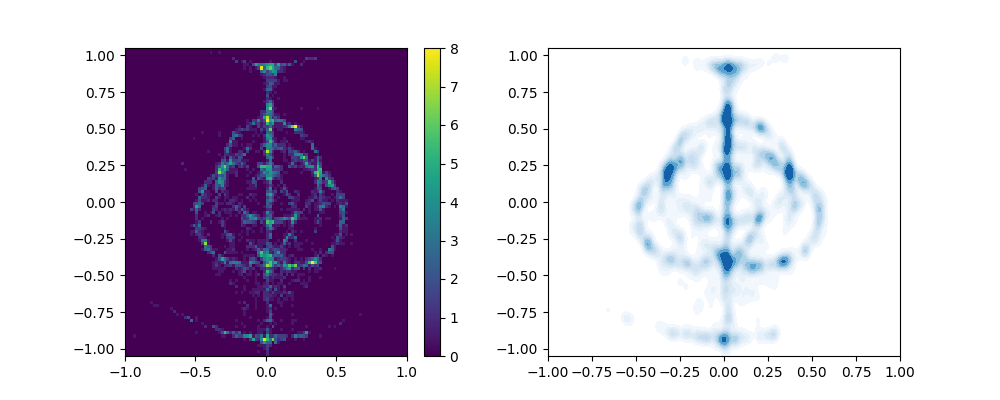
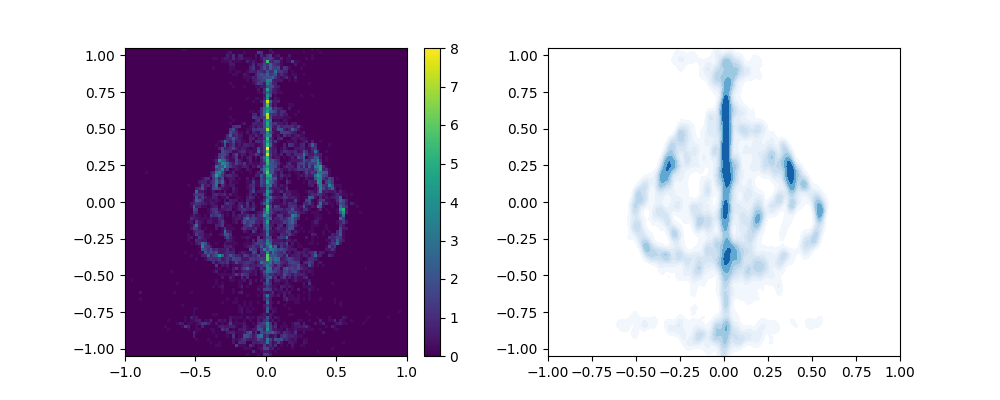
generic commit

diff --git a/scripts/transport/k_diff_interp.py b/scripts/transport/k_diff_interp.py
@@ -847,6 +847,7 @@ def vl_exp(N=4000, Yd=18, normal=True, exp_name='kvl_exp', n_transports=60,  N_p
 
 
 def run():
+    '''
     two_d_exp(ref_gen=sample_normal, target_gen=sample_elden_ring , N=10000, exp_name='elden_moviep2', n_transports=100,
               slice_vals=[], plt_range=[[-1,1], [-1.05, 1.05]], slice_range=[-1.5, 1.5], vmax=8,
               skip_idx=1, N_plot=10000, plot_steps=True, normal=True, bins=100, var_eps=1/12)
@@ -863,8 +864,13 @@ def run():
               slice_vals=[-1,0,1], plt_range=[[-2.5, 2.5], [-1.05, 1.05]], slice_range=[-1.5, 1.5], vmax=8,
               skip_idx=1, N_plot=10000, plot_steps=True, normal=True, bins=100, var_eps=1/3)
 
-    spheres_exp(9000, exp_name='spheres_expp2', n_transports=100)
-    vl_exp(9000, exp_name='vl_expp2', n_transports=100)
+    #spheres_exp(9000, exp_name='spheres_expp2', n_transports=100)
+    #vl_exp(9000, exp_name='vl_expp2', n_transports=100)
+    '''
+
+    two_d_exp(ref_gen=sample_normal, target_gen=mgan2, N=5000, exp_name='exp', n_transports=100,
+              slice_vals=[-1, 0, 1], plt_range=[[-2.5, 2.5], [-1.05, 1.05]], slice_range=[-1.5, 1.5], vmax=8,
+              skip_idx=1, N_plot=5000, plot_steps=True, normal=True, bins=100, var_eps=1 / 3)
 
 if __name__ == '__main__':
     run()

diff --git a/scripts/transport/kvae_diffusion.py b/scripts/transport/kvae_diffusion.py
@@ -491,7 +491,6 @@ def comp_cond_kernel_transport(X_mu, Y_mu, Y_eta, Y_eta_test, X_mu_test, Y_mu_te
 
         iters = model.iters
         print(f'Target eps = {target_eps}')
-        eps = 1-noise_shrink_c
         noise_eps = ((i+1) * eps)/(1 + (i * eps))
         target_eps = 1 - noise_eps
 
